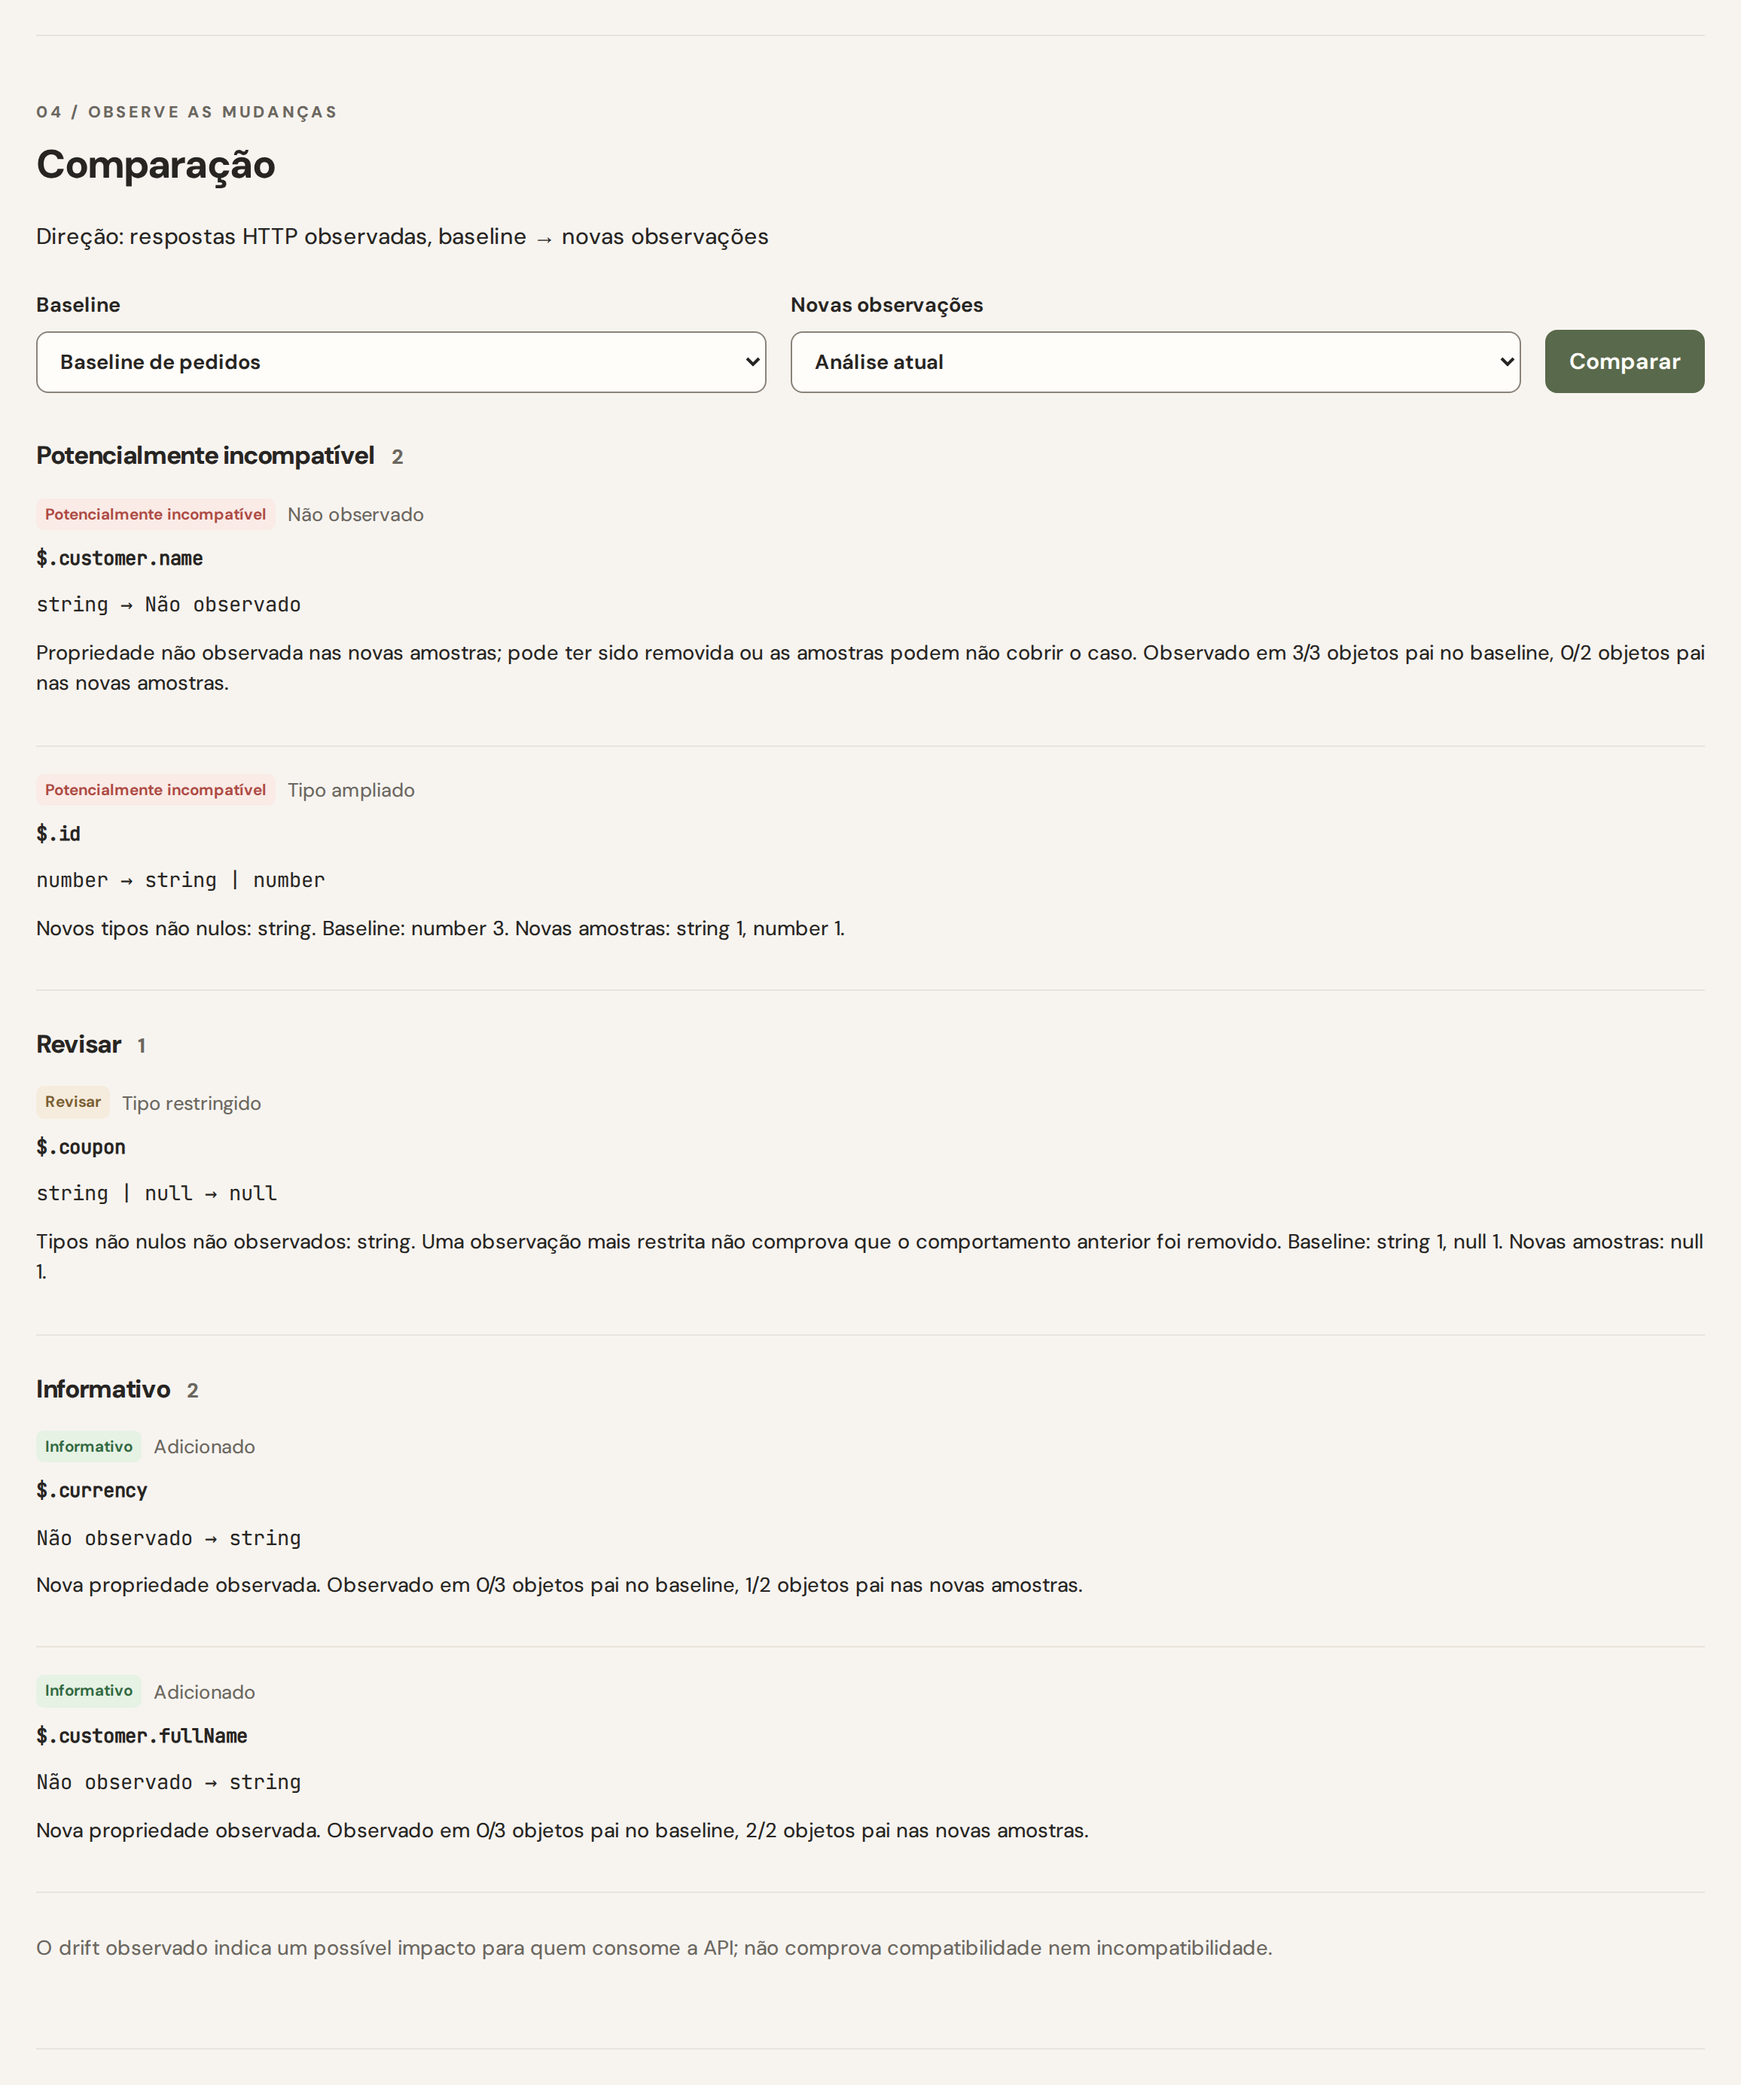
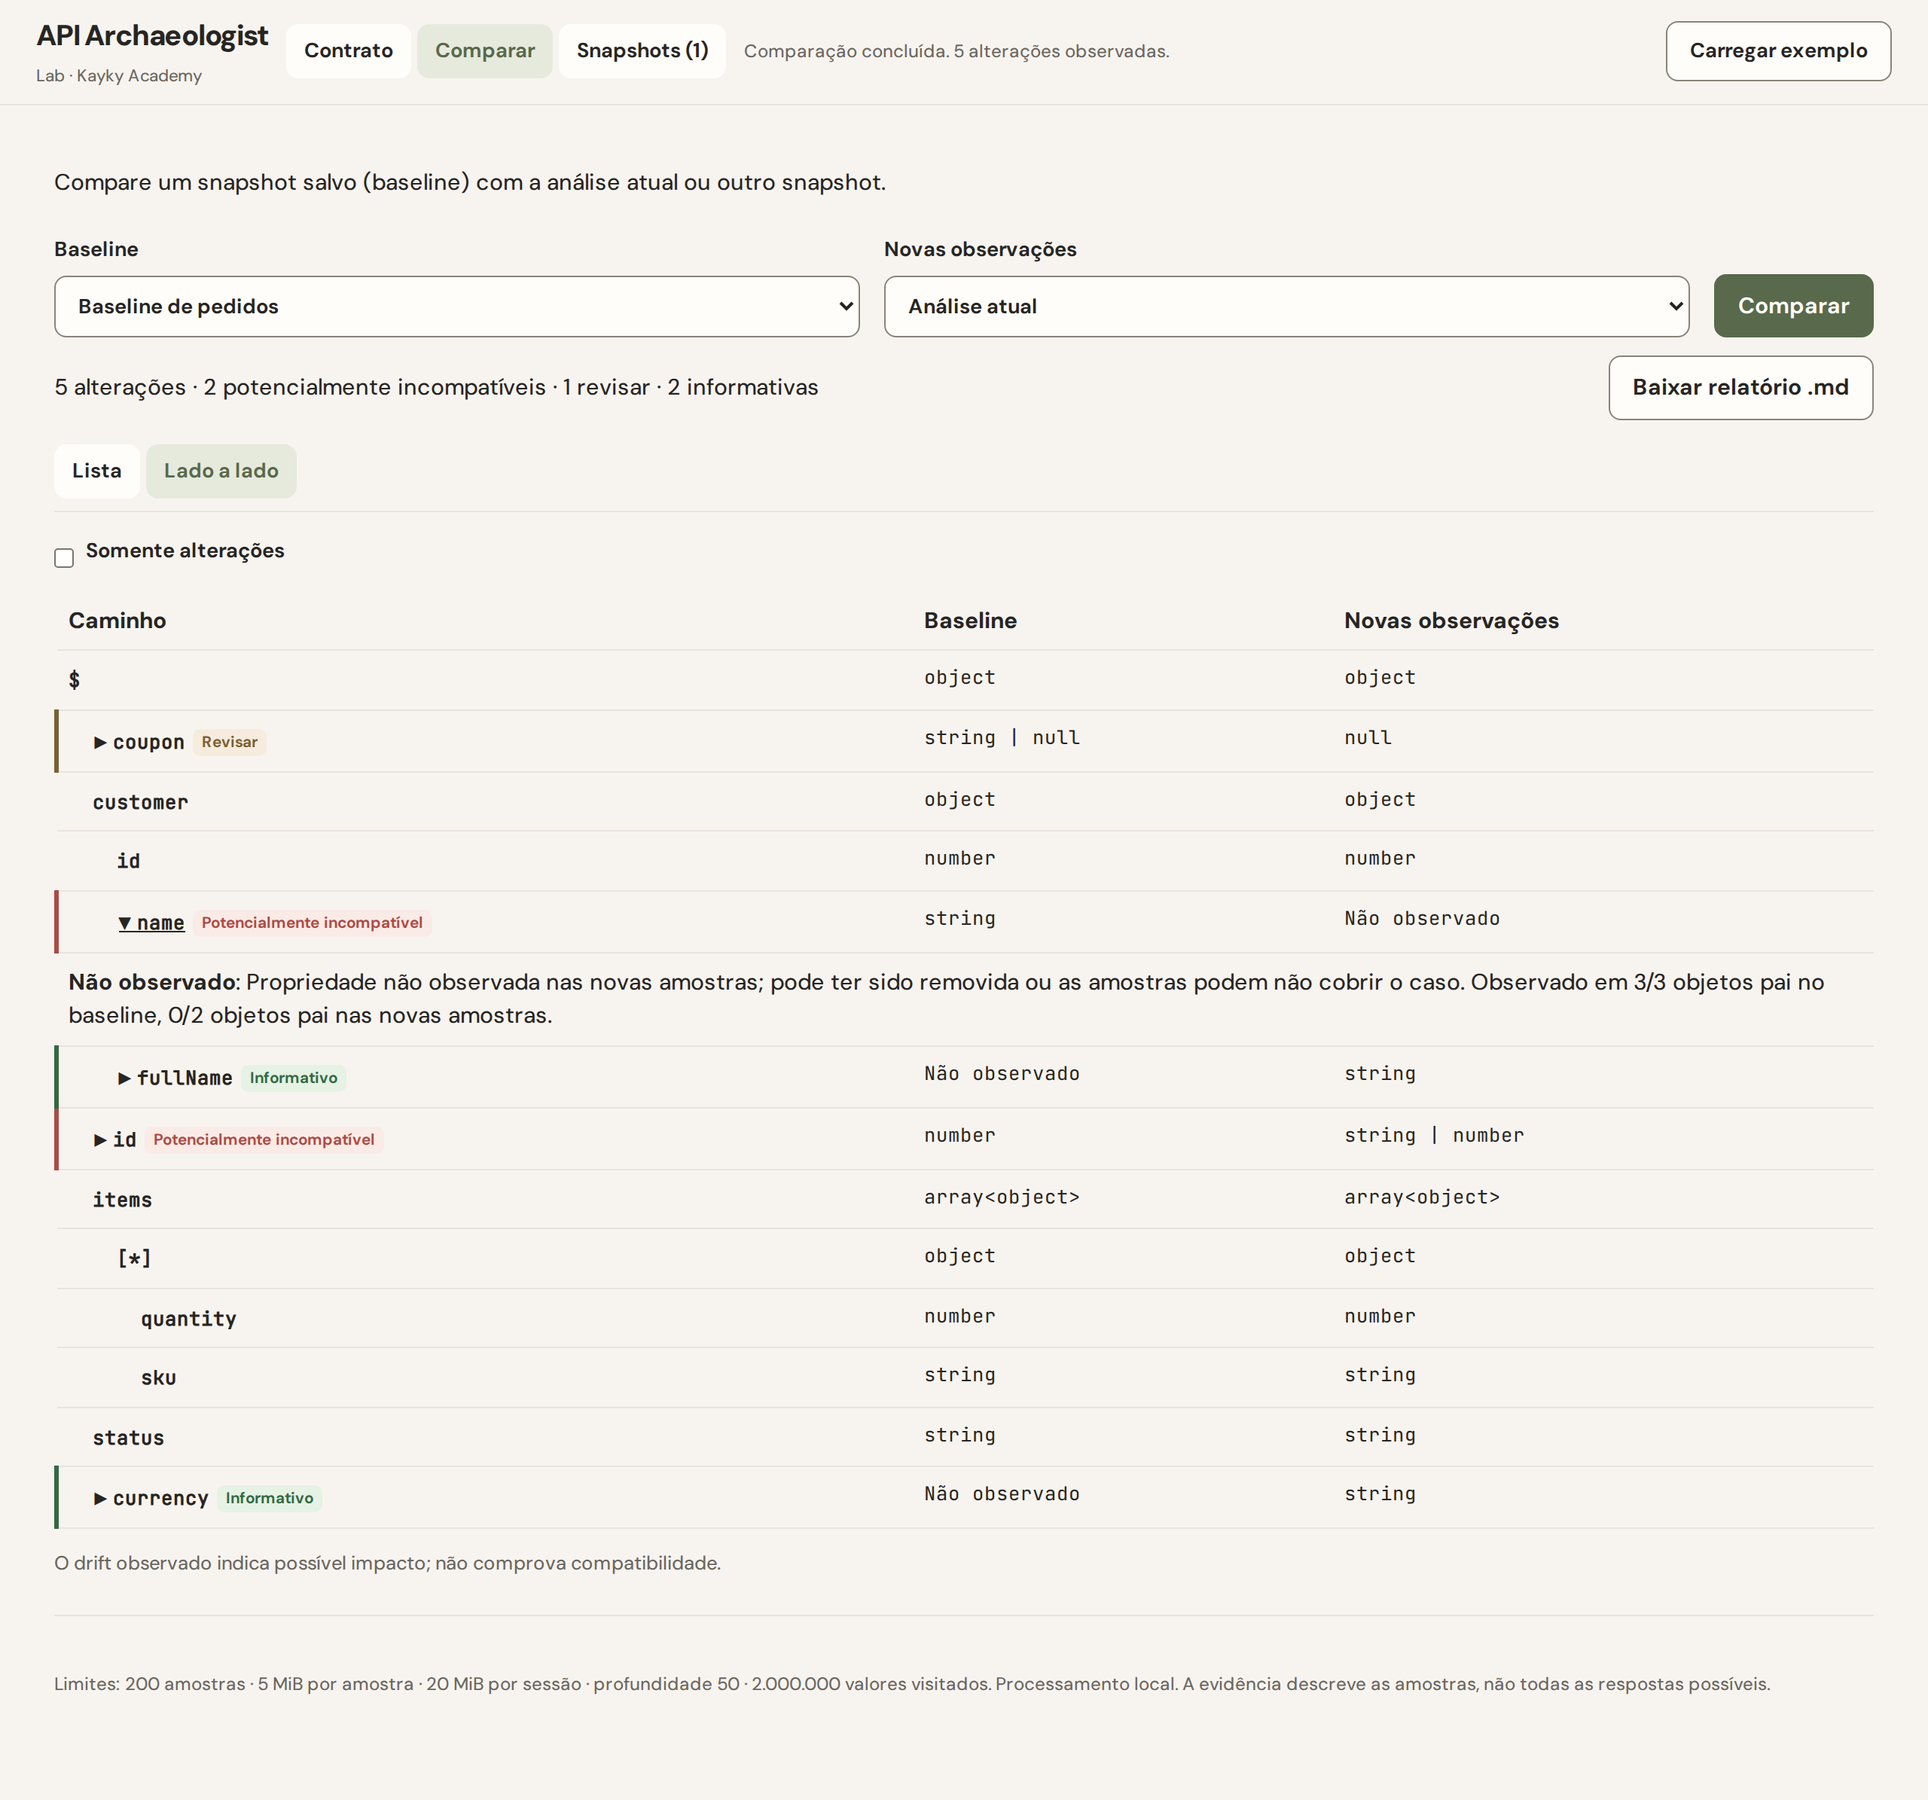
docs: keep documentation in the README and refresh screenshots

diff --git a/README.md b/README.md
@@ -3,23 +3,24 @@
 A browser-only tool that infers TypeScript, Zod and JSON Schema contracts from multiple JSON responses, keeps the observed evidence, and compares contracts for drift. It runs locally in the browser without an API connection or backend.
 
 ![Contract and observed evidence](docs/screenshots/contract.png)
-![Comparison of baseline and new observations](docs/screenshots/drift.png)
+![Side-by-side comparison of baseline and new observations](docs/screenshots/drift.png)
 ![Mobile analysis and export](docs/screenshots/mobile.png)
 
 The interface is in Brazilian Portuguese (pt-BR).
 
 ## How it works
 
-1. Paste JSON responses, upload JSON files, or select `Carregar exemplo` to analyze the three fictional order fixtures. One document is one response sample, including a root array.
-2. Inspect the inferred fields and their evidence. In the example, `coupon` is shown as `Observado em 2/3 objetos pai` and has one null observation, making it optional and nullable for separate reasons.
-3. Copy or download TypeScript, Zod 4 or JSON Schema 2020-12 generated from the same contract tree.
-4. Save the baseline as a local snapshot, then select `Carregar novas observações`. Compare the saved baseline with `Análise atual` to see five changes, including an expanded `id` type and an unobserved `customer.name`.
+1. In `Contrato`, paste JSON responses, upload or drag and drop `.json` files onto the samples panel, or select `Carregar exemplo` to analyze the three fictional order fixtures. One document is one response sample, including a root array. In the editor, Ctrl/Cmd+Enter adds a sample; Ctrl/Cmd+Shift+Enter adds it and analyzes the samples.
+2. Inspect the inferred fields and their evidence. In the example, `coupon` is shown as `Observado em 2/3 objetos pai` and has one null observation, making it optional and nullable for separate reasons. Search the tree by property name or a path starting with `$`, such as `$.items[*].sku`. Matching ancestors remain visible. Expanded nodes render 200 children per batch, including search results, with a control to show more.
+3. Use the `Exportar` menu to copy or download TypeScript, Zod 4 or JSON Schema 2020-12 generated from the same contract tree. The `Código` view also provides a preview, copy and download controls.
+4. Save a baseline as a local snapshot, then load new observations. The example's `Salvar e carregar novas observações` action performs both steps and opens `Comparar`. Compare the saved baseline with `Análise atual` to see five changes, including an expanded `id` type and an unobserved `customer.name`. Inspect `Lista` or `Lado a lado`, use `Somente alterações` in the side-by-side view, and download the Markdown drift report.
+5. In `Snapshots`, open, compare, rename or delete saved snapshots, export all as JSON, or import a snapshot JSON file. Imported files are validated as untrusted input; invalid records are skipped with a report. The three app tabs preserve their mounted panels when switching views.
 
 ## Design decisions
 
-The core is pure TypeScript. A Web Worker runs parsing, inference, generation and comparison; React presents its output. Vite builds a static application, so neither an application server nor a remote database is needed. Dexie stores snapshots in IndexedDB only when explicitly saved.
+The core is pure TypeScript. A Web Worker runs parsing, inference, generation and comparison; React presents its output. Vite builds a static application, so neither an application server nor a remote database is needed. Dexie stores snapshots in IndexedDB when explicitly saved or imported.
 
-Tools such as quicktype already address type generation from JSON. This project's focus is preserving evidence across multiple samples and explaining observed drift. Presence is counted per parent object, nullability is separate from absence, and comparison labels describe potential consumer impact. The [architecture document](docs/architecture.md) walks through the real fixtures and engine outputs.
+Tools such as quicktype already address type generation from JSON. This project's focus is preserving evidence across multiple samples and explaining observed drift. Presence is counted per parent object, nullability is separate from absence, and comparison labels describe potential consumer impact.
 
 ## Privacy and security
 
@@ -33,7 +34,7 @@ Tools such as quicktype already address type generation from JSON. This project'
 
 Samples do not prove the full API contract. A field observed in every parent may still be optional in unseen responses, and no observed drift does not guarantee compatibility. The engine does not infer enums, formats or discriminated unions. Generated schemas allow additional properties. Browser storage may be cleared or evicted.
 
-Inputs are bounded to 200 samples, 5 MiB per sample, 20 MiB per session, depth 50 and 2,000,000 visited values. The [limitations document](docs/limitations.md) records validator edge cases, the measured artificial workloads and the CSP style exception.
+Inputs are bounded to 200 samples, 5 MiB per sample, 20 MiB per session, depth 50 and 2,000,000 visited values. The contract tree renders 200 children per batch; in one local measurement a sample with 50,000 properties at one level was painted about 0.9 s after Analyze, compared with 7.9 s before incremental rendering. Imported snapshot files are limited to 20 MiB and 500 records and are validated as untrusted input. The CSP allows inline styles because the code editor injects them.
 
 ## Local use
 
@@ -92,7 +93,7 @@ With `E2E_BASE_URL` set, Playwright does not launch a server. Each test rejects 
 
 ## Cloudflare Pages
 
-The application is deployed at https://academy-api-archaeologist.kaykygarcia.dev on Cloudflare Pages; see the [deployment record and verification checklist](docs/deploy-cloudflare-pages.md).
+The application is deployed at https://academy-api-archaeologist.kaykygarcia.dev on Cloudflare Pages, with build command `pnpm build` and output directory `apps/web/dist`. Pages reads Node from `.nvmrc` but ignores `packageManager`, so the project sets the environment variable `PNPM_VERSION=12.23.0`. Security headers come from `apps/web/public/_headers`. To check the live site, run `E2E_BASE_URL=https://academy-api-archaeologist.kaykygarcia.dev pnpm test:e2e`.
 
 ## License
 
@@ -102,10 +103,17 @@ The application is deployed at https://academy-api-archaeologist.kaykygarcia.dev
 
 - [Evidence model](packages/core/src/types.ts) and [inference](packages/core/src/inference.ts)
 - [Normalization and evidence counts](packages/core/src/normalization.ts)
-- [Contract comparison](packages/core/src/comparison.ts)
+- [Contract comparison](packages/core/src/comparison.ts), [aligned rows](packages/core/src/align.ts) and [drift labels](packages/core/src/labels.ts)
+- [Tree search](packages/core/src/search.ts), [contract validation](packages/core/src/validate.ts) and [own-field checks](packages/core/src/own.ts)
+- [Markdown drift report](packages/core/src/report.ts)
 - [Generators](packages/core/src/generators)
 - [Worker adapter](apps/web/src/workers/analysis.worker.ts)
-- [Snapshot storage](apps/web/src/features/snapshots/db.ts)
+- [App state and focus](apps/web/src/App.tsx) and [tabs](apps/web/src/components/Tabs.tsx)
+- [Sample input and drop zone](apps/web/src/features/samples/SamplesPanel.tsx)
+- [Contract toolbar](apps/web/src/features/contract/ContractSection.tsx), [incremental tree](apps/web/src/features/contract/ContractTree.tsx) and [export menu](apps/web/src/components/ExportMenu.tsx)
+- [Comparison panel](apps/web/src/features/comparison/ComparisonPanel.tsx) and [side-by-side view](apps/web/src/features/comparison/SideBySide.tsx)
+- [Snapshot transfer UI](apps/web/src/features/snapshots/SnapshotTransfer.tsx), [interchange validation](apps/web/src/features/snapshots/transfer.ts) and [storage](apps/web/src/features/snapshots/db.ts)
+- [Responsive styles](apps/web/src/styles/index.css)
 - [E2E specs](apps/web/e2e) and [Playwright configuration](apps/web/playwright.config.ts)
 - [Docker stages](Dockerfile) and [Nginx configuration](nginx.conf)
 - [Production headers](apps/web/public/_headers)

diff --git a/AGENTS.md b/AGENTS.md
@@ -1,6 +1,6 @@
 # Project invariants
 
-Read `README.md`, `docs/architecture.md` and `docs/limitations.md` before implementation. Make no scope changes without approval. Record any deviation in the final report instead of faking a feature.
+Read `README.md` before implementation. Make no scope changes without approval. Record any deviation in the final report instead of faking a feature.
 
 - Keep core pure TypeScript, independent of DOM and React. Workers are thin adapters; UI never reimplements inference or counts.
 - Distinguish missing from null. Count presence per parent object occurrence; never present counts as probabilities.
